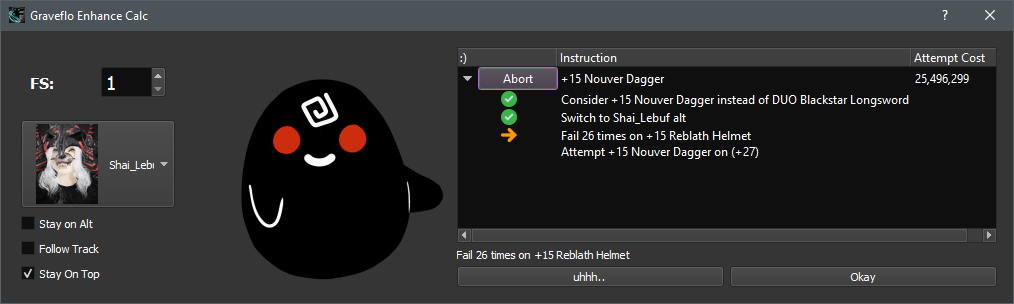
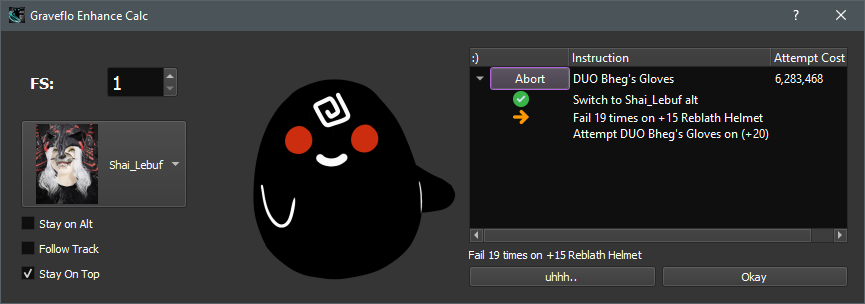
Changed text for avg enhance cost method Didn't like the picture

diff --git a/FrmMain.py b/FrmMain.py
@@ -973,7 +973,7 @@ class Frm_Main(Qt_common.lbl_color_MainWindow):
         self.mod_enhance_me = None
         self.mod_fail_stackers = None
         self.mod_enhance_split_idx = None
-        self.invalidated_gear = []
+        self.invalidated_gear = set()
 
 
         self.strat_go_mode = False  # The strategy has been calculated and needs to be updated
@@ -1096,7 +1096,7 @@ class Frm_Main(Qt_common.lbl_color_MainWindow):
                 thic = tw.itemWidget(i, 0).gear
                 try:
                     enhance_me.remove(thic)
-                    tmodel.invalidate_enahce_list()
+                    #tmodel.invalidate_enahce_list()
                 except ValueError:
                     pass
                 try:
@@ -1673,7 +1673,7 @@ class Frm_Main(Qt_common.lbl_color_MainWindow):
 
         try:
             model.calc_equip_costs(gear=self.invalidated_gear)
-            self.invalidated_gear = []
+            self.invalidated_gear = set()
         except ValueError as f:
             self.show_warning_msg(str(f))
             return
@@ -2086,7 +2086,9 @@ class Frm_Main(Qt_common.lbl_color_MainWindow):
 
         with QBlockSig(tw):
             top_lvl = self.create_Eq_TreeWidget(tw, this_gear, check_state)
+
             master_gw: GearWidget = tw.itemWidget(top_lvl, 0)
+            self.invalidated_gear.add(master_gw.gear)
             master_gw.sig_gear_changed.connect(self.master_gw_sig_gear_changed)
             tw.addTopLevelItem(top_lvl)
             self.add_children(top_lvl)
@@ -2266,7 +2268,7 @@ class Frm_Main(Qt_common.lbl_color_MainWindow):
             gw = tw.itemWidget(itm, 0)
             gear = gw.gear
             gear.costs_need_update = True
-            self.invalidated_gear.append(gw.gear)
+            self.invalidated_gear.add(gw.gear)
             with QBlockSig(tw):
                 itm.setText(4, '')
                 itm.setText(5, '')
@@ -2282,7 +2284,7 @@ class Frm_Main(Qt_common.lbl_color_MainWindow):
                 child.setText(7, '')
                 child.setText(8, '')
                 #self.invalidated_gear.append(child_gw.gear)  Gear only needs count one for all levels
-        self.invalidated_gear = list(set(self.invalidated_gear))
+        #self.invalidated_gear = list(set(self.invalidated_gear))
         self.invalidate_strategy()
 
     def invalidate_strategy(self):
@@ -2381,7 +2383,7 @@ class Frm_Main(Qt_common.lbl_color_MainWindow):
 
         self.load_ui_common()
 
-        self.invalidated_gear = enhance_me + r_enhance_me
+        self.invalidated_gear = set(enhance_me + r_enhance_me)
 
         tw = frmObj.table_Equip
         for gear in enhance_me:

diff --git a/Forms/Main_Window.py b/Forms/Main_Window.py
@@ -47,7 +47,7 @@ class Ui_MainWindow(object):
         self.scrollArea.setWidgetResizable(True)
         self.scrollArea.setObjectName("scrollArea")
         self.scrollAreaWidgetContents = QtWidgets.QWidget()
-        self.scrollAreaWidgetContents.setGeometry(QtCore.QRect(0, -144, 878, 588))
+        self.scrollAreaWidgetContents.setGeometry(QtCore.QRect(0, 0, 878, 588))
         self.scrollAreaWidgetContents.setObjectName("scrollAreaWidgetContents")
         self.verticalLayout_8 = QtWidgets.QVBoxLayout(self.scrollAreaWidgetContents)
         self.verticalLayout_8.setObjectName("verticalLayout_8")
@@ -630,7 +630,7 @@ class Ui_MainWindow(object):
         self.lblDragonScale.setText(_translate("MainWindow", "Dragon Scale Cost"))
         self.lblBlackStoneArmor.setText(_translate("MainWindow", "Black Stone (Armor)"))
         self.cmbEnhanceMethod.setItemText(0, _translate("MainWindow", "Estimate (Fast)"))
-        self.cmbEnhanceMethod.setItemText(1, _translate("MainWindow", "Average (Moderate)"))
+        self.cmbEnhanceMethod.setItemText(1, _translate("MainWindow", "2-Point Average (Moderate)"))
         self.cmbEnhanceMethod.setItemText(2, _translate("MainWindow", "Thorough (Slow)"))
         self.label_2.setText(_translate("MainWindow", "Enhancement Cost Function"))
         self.cmdMPUpdateMonnies.setText(_translate("MainWindow", "MP: Update Costs"))
@@ -697,13 +697,13 @@ class Ui_MainWindow(object):
         item = self.table_Strat_FS.horizontalHeaderItem(0)
         item.setText(_translate("MainWindow", "Item"))
         item = self.table_Strat_FS.horizontalHeaderItem(1)
-        item.setText(_translate("MainWindow", "Cost"))
+        item.setText(_translate("MainWindow", "Cost Balance"))
         item = self.table_Strat_FS.horizontalHeaderItem(2)
         item.setText(_translate("MainWindow", "Effectiveness"))
         item = self.table_Strat_Equip.horizontalHeaderItem(0)
         item.setText(_translate("MainWindow", "Item"))
         item = self.table_Strat_Equip.horizontalHeaderItem(1)
-        item.setText(_translate("MainWindow", "Cost"))
+        item.setText(_translate("MainWindow", "Cost Balance"))
         item = self.table_Strat_Equip.horizontalHeaderItem(2)
         item.setText(_translate("MainWindow", "Loss Prevention"))
         item = self.table_Strat_Equip.horizontalHeaderItem(3)

diff --git a/model.py b/model.py
@@ -146,6 +146,7 @@ class Enhance_model(object):
         self.dragon_scale_350 = False
         self.cost_funcs = {
             'Estimate (Fast)': 0,
+            '2-Point Average (Moderate)': 1,
             'Average (Moderate)': 1,
             'Thorough (Slow)': 2
         }
